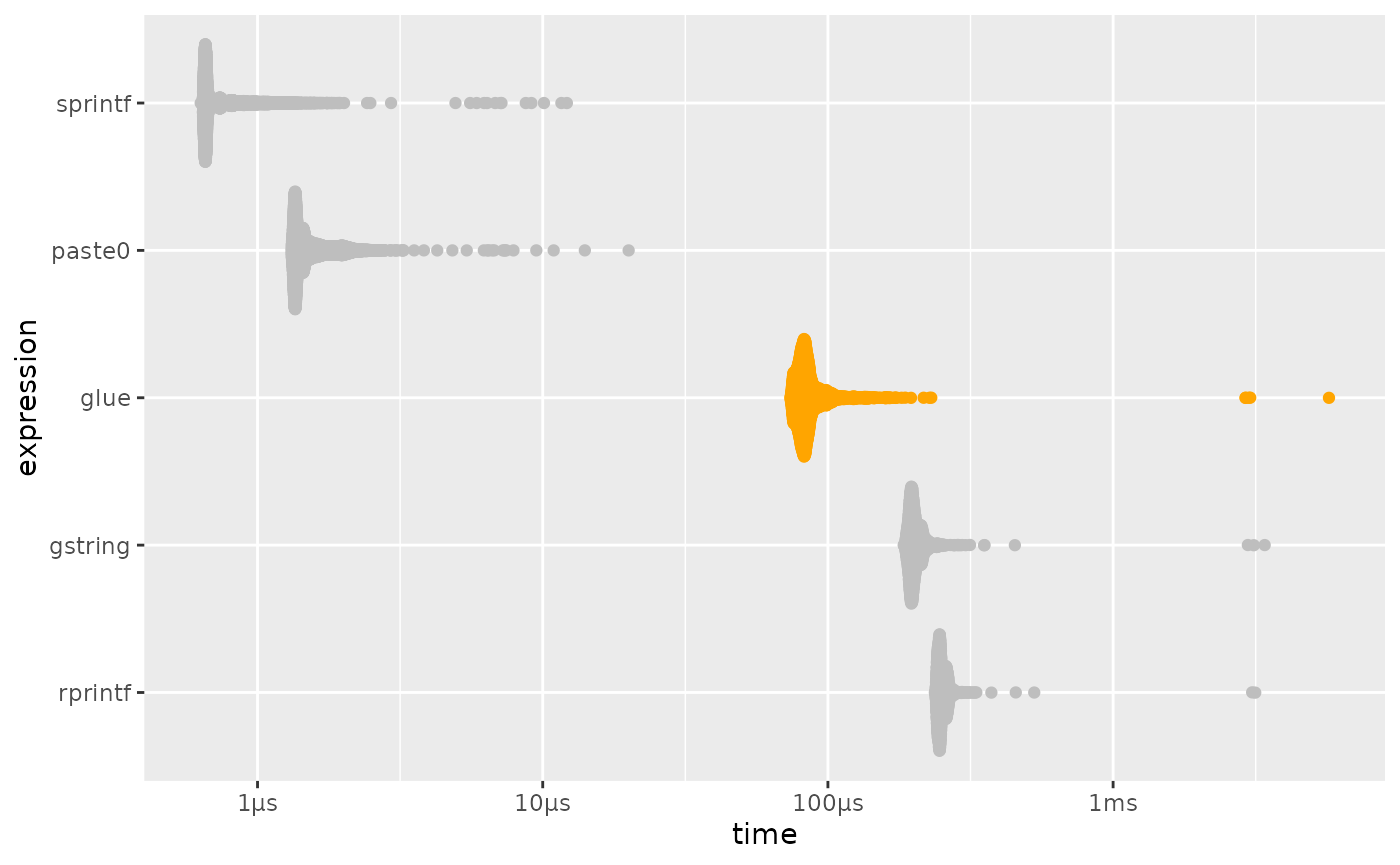
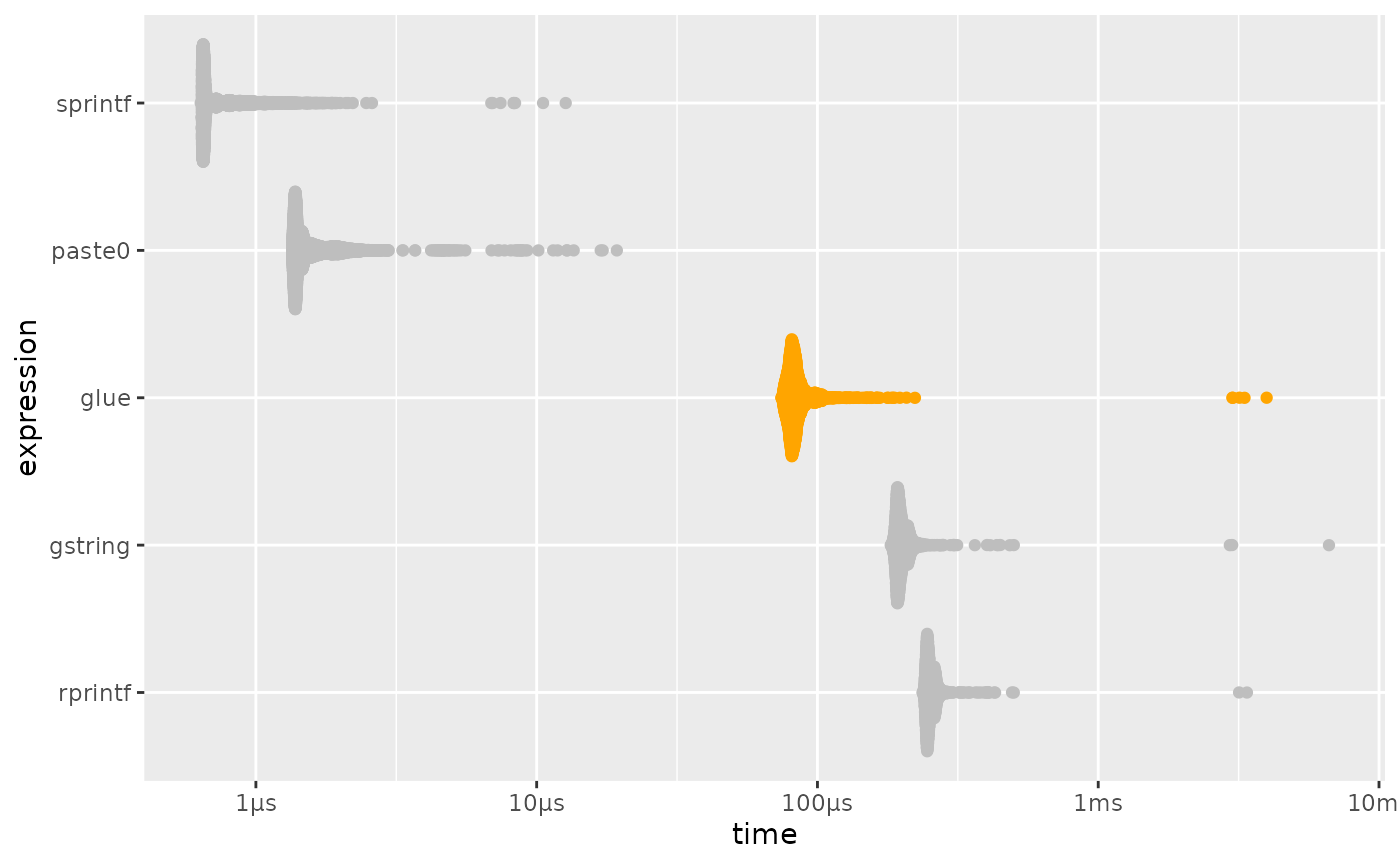
Deploying to gh-pages from @ tidyverse/glue@259b598ea64042fc46c3c68cec7a4f6c540b7d53 🚀

diff --git a/dev/articles/speed.html b/dev/articles/speed.html
@@ -156,11 +156,11 @@ this benchmark, but is now formally marked as “superseded”, in favor of
 <span><span class="co">#&gt; <span style="color: #949494;"># A tibble: 5 × 6</span></span></span>
 <span><span class="co">#&gt;   expression      min   median `itr/sec` mem_alloc `gc/sec`</span></span>
 <span><span class="co">#&gt;   <span style="color: #949494; font-style: italic;">&lt;bch:expr&gt;</span> <span style="color: #949494; font-style: italic;">&lt;bch:tm&gt;</span> <span style="color: #949494; font-style: italic;">&lt;bch:tm&gt;</span>     <span style="color: #949494; font-style: italic;">&lt;dbl&gt;</span> <span style="color: #949494; font-style: italic;">&lt;bch:byt&gt;</span>    <span style="color: #949494; font-style: italic;">&lt;dbl&gt;</span></span></span>
-<span><span class="co">#&gt; <span style="color: #BCBCBC;">1</span> sprintf    632.02ns 660.08ns  1<span style="text-decoration: underline;">313</span>293.        0B     0   </span></span>
-<span><span class="co">#&gt; <span style="color: #BCBCBC;">2</span> paste0       1.32µs   1.44µs   <span style="text-decoration: underline;">640</span>974.        0B     0   </span></span>
-<span><span class="co">#&gt; <span style="color: #BCBCBC;">3</span> glue        73.92µs  82.93µs    <span style="text-decoration: underline;">11</span>648.  141.72KB    10.4 </span></span>
-<span><span class="co">#&gt; <span style="color: #BCBCBC;">4</span> gstring    184.42µs 199.15µs     <span style="text-decoration: underline;">4</span>929.    2.43MB     6.11</span></span>
-<span><span class="co">#&gt; <span style="color: #BCBCBC;">5</span> rprintf    237.16µs  248.6µs     <span style="text-decoration: underline;">3</span>966.  504.06KB     4.05</span></span>
+<span><span class="co">#&gt; <span style="color: #BCBCBC;">1</span> sprintf    635.98ns 652.97ns  1<span style="text-decoration: underline;">329</span>397.        0B     0   </span></span>
+<span><span class="co">#&gt; <span style="color: #BCBCBC;">2</span> paste0       1.35µs   1.45µs   <span style="text-decoration: underline;">629</span>953.        0B     0   </span></span>
+<span><span class="co">#&gt; <span style="color: #BCBCBC;">3</span> glue        74.43µs  82.28µs    <span style="text-decoration: underline;">11</span>833.  141.72KB    10.3 </span></span>
+<span><span class="co">#&gt; <span style="color: #BCBCBC;">4</span> gstring     182.4µs 196.61µs     <span style="text-decoration: underline;">4</span>975.    2.43MB     6.15</span></span>
+<span><span class="co">#&gt; <span style="color: #BCBCBC;">5</span> rprintf    236.81µs 249.78µs     <span style="text-decoration: underline;">3</span>931.  504.06KB     4.05</span></span>
 <span></span>
 <span><span class="co"># plotting function defined in a hidden chunk</span></span>
 <span><span class="fu">plot_comparison</span><span class="op">(</span><span class="va">simple</span><span class="op">)</span></span></code></pre></div>
@@ -203,11 +203,11 @@ performance is much closer to that of <code><a href="https://rdrr.io/r/base/past
 <span><span class="co">#&gt; <span style="color: #949494;"># A tibble: 5 × 6</span></span></span>
 <span><span class="co">#&gt;   expression      min   median `itr/sec` mem_alloc `gc/sec`</span></span>
 <span><span class="co">#&gt;   <span style="color: #949494; font-style: italic;">&lt;bch:expr&gt;</span> <span style="color: #949494; font-style: italic;">&lt;bch:tm&gt;</span> <span style="color: #949494; font-style: italic;">&lt;bch:tm&gt;</span>     <span style="color: #949494; font-style: italic;">&lt;dbl&gt;</span> <span style="color: #949494; font-style: italic;">&lt;bch:byt&gt;</span>    <span style="color: #949494; font-style: italic;">&lt;dbl&gt;</span></span></span>
-<span><span class="co">#&gt; <span style="color: #BCBCBC;">1</span> sprintf      8.87ms   9.07ms     110.    781.3KB     4.16</span></span>
-<span><span class="co">#&gt; <span style="color: #BCBCBC;">2</span> paste0       8.94ms    9.1ms     110.    781.3KB     2.04</span></span>
-<span><span class="co">#&gt; <span style="color: #BCBCBC;">3</span> gstring     11.81ms  11.95ms      83.5    1.53MB     4.18</span></span>
-<span><span class="co">#&gt; <span style="color: #BCBCBC;">4</span> glue        12.44ms  12.71ms      78.3    2.29MB    15.7 </span></span>
-<span><span class="co">#&gt; <span style="color: #BCBCBC;">5</span> rprintf     28.79ms  29.46ms      34.0    3.05MB     4.54</span></span>
+<span><span class="co">#&gt; <span style="color: #BCBCBC;">1</span> sprintf      8.87ms   9.04ms     110.    781.3KB     4.16</span></span>
+<span><span class="co">#&gt; <span style="color: #BCBCBC;">2</span> paste0       9.04ms   9.17ms     109.    781.3KB     4.19</span></span>
+<span><span class="co">#&gt; <span style="color: #BCBCBC;">3</span> gstring     11.78ms  11.96ms      83.5    1.53MB     4.18</span></span>
+<span><span class="co">#&gt; <span style="color: #BCBCBC;">4</span> glue        12.51ms  12.71ms      78.6    2.29MB     9.53</span></span>
+<span><span class="co">#&gt; <span style="color: #BCBCBC;">5</span> rprintf     29.35ms  29.65ms      33.5    3.05MB     2.10</span></span>
 <span></span>
 <span><span class="co"># plotting function defined in a hidden chunk</span></span>
 <span><span class="fu">plot_comparison</span><span class="op">(</span><span class="va">vectorized</span><span class="op">)</span></span></code></pre></div>

diff --git a/dev/articles/speed.md b/dev/articles/speed.md
@@ -65,11 +65,11 @@ simple %>%
 #> # A tibble: 5 × 6
 #>   expression      min   median `itr/sec` mem_alloc `gc/sec`
 #>   <bch:expr> <bch:tm> <bch:tm>     <dbl> <bch:byt>    <dbl>
-#> 1 sprintf    632.02ns 660.08ns  1313293.        0B     0   
-#> 2 paste0       1.32µs   1.44µs   640974.        0B     0   
-#> 3 glue        73.92µs  82.93µs    11648.  141.72KB    10.4 
-#> 4 gstring    184.42µs 199.15µs     4929.    2.43MB     6.11
-#> 5 rprintf    237.16µs  248.6µs     3966.  504.06KB     4.05
+#> 1 sprintf    635.98ns 652.97ns  1329397.        0B     0   
+#> 2 paste0       1.35µs   1.45µs   629953.        0B     0   
+#> 3 glue        74.43µs  82.28µs    11833.  141.72KB    10.3 
+#> 4 gstring     182.4µs 196.61µs     4975.    2.43MB     6.15
+#> 5 rprintf    236.81µs 249.78µs     3931.  504.06KB     4.05
 
 # plotting function defined in a hidden chunk
 plot_comparison(simple)
@@ -122,11 +122,11 @@ vectorized %>%
 #> # A tibble: 5 × 6
 #>   expression      min   median `itr/sec` mem_alloc `gc/sec`
 #>   <bch:expr> <bch:tm> <bch:tm>     <dbl> <bch:byt>    <dbl>
-#> 1 sprintf      8.87ms   9.07ms     110.    781.3KB     4.16
-#> 2 paste0       8.94ms    9.1ms     110.    781.3KB     2.04
-#> 3 gstring     11.81ms  11.95ms      83.5    1.53MB     4.18
-#> 4 glue        12.44ms  12.71ms      78.3    2.29MB    15.7 
-#> 5 rprintf     28.79ms  29.46ms      34.0    3.05MB     4.54
+#> 1 sprintf      8.87ms   9.04ms     110.    781.3KB     4.16
+#> 2 paste0       9.04ms   9.17ms     109.    781.3KB     4.19
+#> 3 gstring     11.78ms  11.96ms      83.5    1.53MB     4.18
+#> 4 glue        12.51ms  12.71ms      78.6    2.29MB     9.53
+#> 5 rprintf     29.35ms  29.65ms      33.5    3.05MB     2.10
 
 # plotting function defined in a hidden chunk
 plot_comparison(vectorized)
